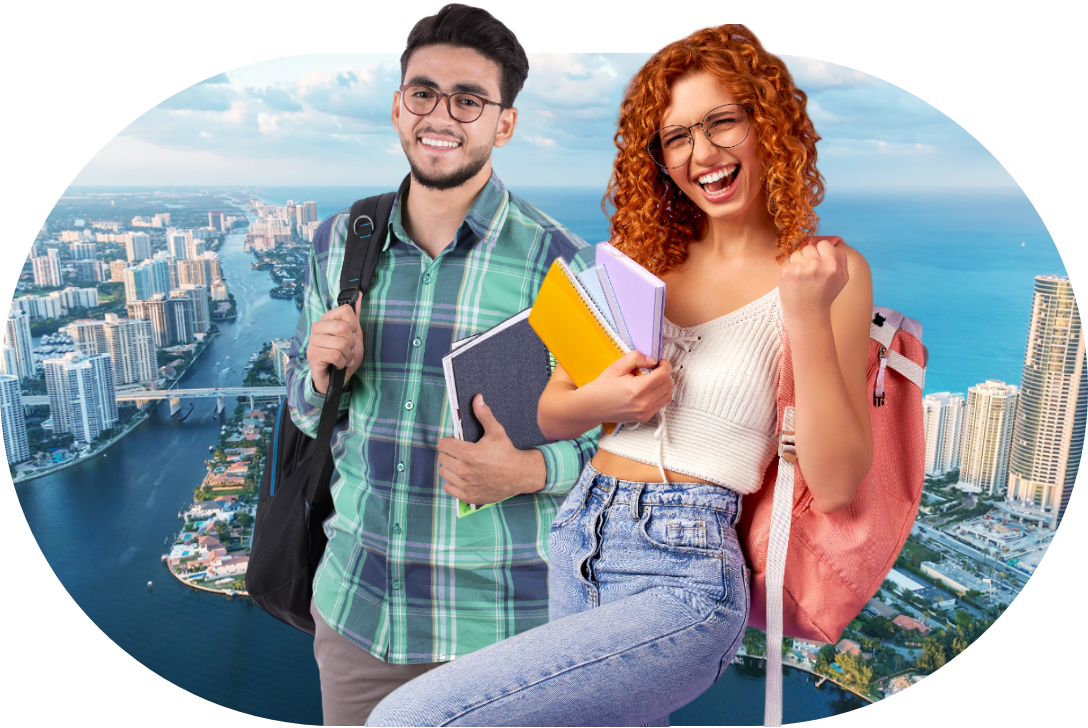
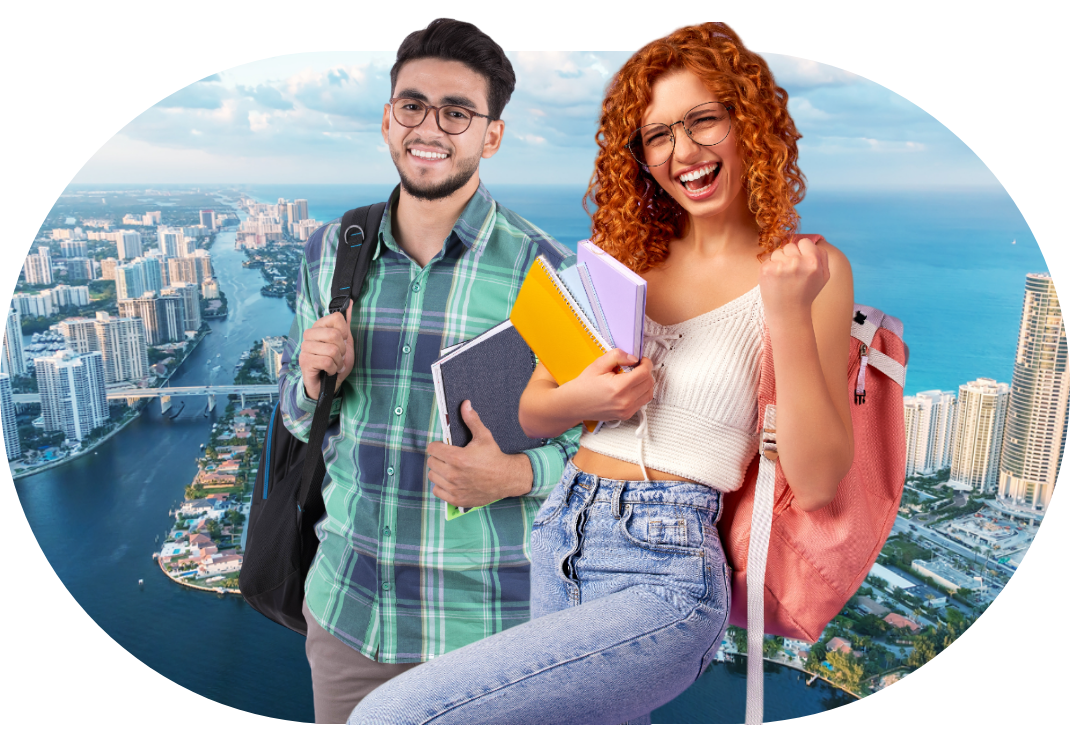
listo borrosidad de la imagen students

diff --git a/src/components/students/TextwithImage.tsx b/src/components/students/TextwithImage.tsx
@@ -40,7 +40,7 @@ const TextWithImage = () => {
           alt="Students"
           style={{ width: '100%', height: 'auto', maxWidth: '1000px' }}
         /> */}
-        <Image
+        <img
           src="/assets/grupoStudiantes2.png"
           alt="Students"
           width={0}
